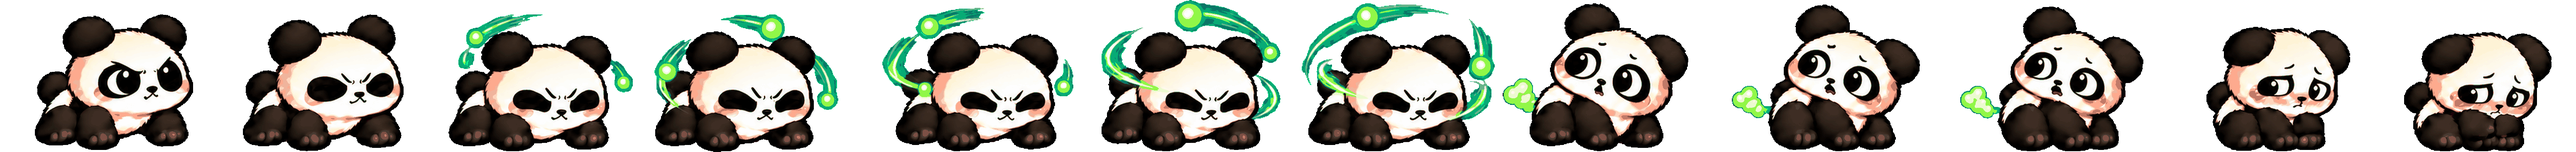
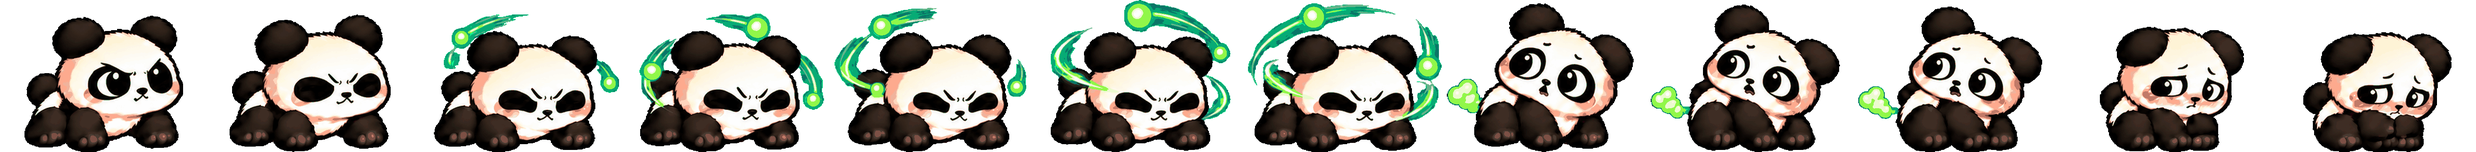
Plant the cub, and let the fart land
Two things the first cut got wrong.

The cub hopped about the stage. The other packs answer a drift that is
regular - each row drawn a little higher than the last - and one ground
line per row is enough for it. This sheet also drifts about ten pixels
left per column, and underneath both it simply does not draw the cub in
the same place twice: 55 source pixels between the leftmost frame and
the rightmost, about 26 on screen. So every frame is anchored on its
own now. The floor fixes y - the cub is planted in all twelve frames, so
its lowest pixel is the ground line - and the body's centre of mass
fixes x. The head alone and the paws alone were measured too; the whole
body scored best, taking frame-to-frame overlap from 0.77 to 0.86. On
screen that leaves 3.5px of wander and 1px of bob, and the residue is
the cub turning its head, which is drawn.

And the fart went past before you could see it. The release now holds
700ms rather than 440, and the cloud takes the clip's three longest
holds: 1.8 seconds between them, up from 1.04, and more than the whole
charge. The charge gives some of that back by quickening a little
harder, so the clip runs to 4,885ms.

Refitted after the repack: ear to ear exact, ground line exact, centre
a quarter of a pixel out.

Claude-Session: https://claude.ai/code/session_01YRzrKPfiP3SQKKej9Vjk7N

Changed region(s): [[0.0, 0.0, 0.998, 1.0], [0.5302, 0.9864, 0.5614, 1.0], [0.5302, 0.0598, 0.5614, 0.0897]]

diff --git a/index.html b/index.html
@@ -1492,13 +1492,16 @@ const SKILLS = {
         /* Brace, gather, and the wrong end opens. The seven charge frames
            quicken the way the Puffling's do, then everything stops: the
            release is one drawing held long enough to be a beat, because the
-           joke is the pause, not the puff. The cloud grows over two frames,
-           and the last two alternate so the panda glances about while it
-           hangs there rather than lying perfectly still through the shame. */
+           joke is the pause, not the puff. The cloud then gets the clip's
+           longest holds - 1.8 seconds across three frames, more than the
+           whole charge - because a fart that goes past in a tenth of a
+           second is a fart nobody saw. The last two alternate so the cub
+           glances about while it hangs there rather than lying perfectly
+           still through the shame. */
         order:    [0, 1, 2, 3, 4, 5, 6,  7,   8,   9,  10, 11, 10, 11],
-        durations:[380, 340, 310, 280, 250, 215, 180,  440,  280, 320,
-                   300, 300, 380, 440],
-        aspect:1.405, scale:1.036, dx:-0.4, dy:0.2 } }
+        durations:[340, 310, 280, 250, 225, 195, 165,  700,  480, 620,
+                   280, 280, 340, 420],
+        aspect:1.351, scale:0.992, dx:2.2, dy:-1.1 } }
   ]
 };
 function skillsFor(speciesId){ return SKILLS[speciesId] || []; }
@@ -2637,8 +2640,8 @@ function spriteConfig(species, stage){
 /* Stamped into Settings so a device can say which build it is running. GitHub
    Pages caches index.html and offers no way to set headers on it, so a missing
    feature and a stale page look the same without this. */
-const BUILD_ID = "2026-09-16 9e4be8f";
-const ART_VERSION = "16";
+const BUILD_ID = "2026-09-16 7072299";
+const ART_VERSION = "17";
 function assetURL(src){
   return /^art\//.test(src) ? src + "?v=" + ART_VERSION : src;
 }

diff --git a/README.md b/README.md
@@ -309,6 +309,20 @@ Column boundaries did fall where an even split puts them, checked the same
 way. Worth doing for every sheet from now on - an even split is an assumption,
 and this one had been quietly wrong.
 
+The same sheet then needed the anchoring taken a step further than any before
+it. The other packs correct a drift that is regular - each row drawn a little
+higher than the last - and one ground line per row is enough to answer it.
+This one drifts about ten pixels left per column as well, and underneath both
+it simply does not draw the cub in the same place twice: 55 source pixels
+between the leftmost frame and the rightmost, which on the pet screen was the
+cub hopping some 26 pixels about the stage while it charged. So every frame is
+anchored on its own here. The floor fixes y, because the cub is planted in all
+twelve frames and its lowest pixel is the ground line, and the body's centre
+of mass fixes x. The head alone and the paws alone were measured too; the
+whole body scored best, taking frame-to-frame overlap from 0.77 to 0.86. What
+is left on screen is 3.5px of wander and 1px of bob, and that residue is the
+cub turning its head, which is drawn.
+
 An `order` turns up a second problem worth naming, because it applies to every
 clip with its own timing. A keyframes rule that stops at its last frame has no
 100% stop, so the browser writes one from the element's own style — which is
@@ -372,11 +386,14 @@ earths it through itself, and spends the last second and a half sitting there
 singed while the smoke drifts off it; the Bamboo Cub braces, pulls a whole
 orbiting ring of green in around itself over seven quickening frames, and
 opens the wrong end. Its timing is built around the beat rather than the
-build: everything stops on the release, one drawing held for 440ms, because
-the joke is the pause and not the puff. Then the cloud grows over two frames
-and the cub spends the last second and a half lying flat, glancing left and
-right — the two flattened frames alternate, so it is checking whether anyone
-saw rather than lying perfectly still.
+build: everything stops on the release, one drawing held for 700ms, because
+the joke is the pause and not the puff. The cloud then takes the clip's three
+longest holds, 1.8 seconds between them — more than the whole charge, and it
+needs to be: at the 1,040ms it first ran to, the thing the whole skill is
+about went past before you could register it. The cub spends the last second
+and a half lying flat, glancing left and right — the two flattened frames
+alternate, so it is checking whether anyone saw rather than lying perfectly
+still.
 The Zephyrite's is the same idea grown up and not played for laughs: it
 gathers, the sky answers with an orb, and a bolt comes down. Its charge quickens
 the same way, but the four strike frames grow rather than flicker, so they are
